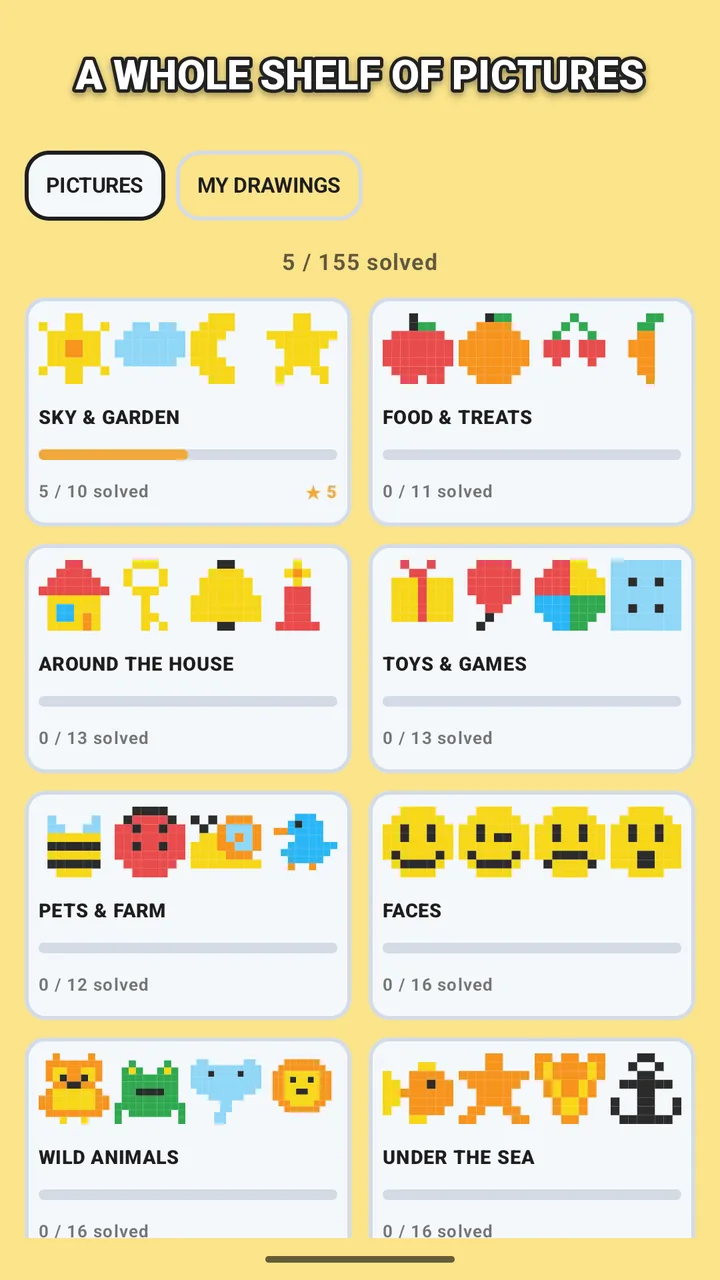
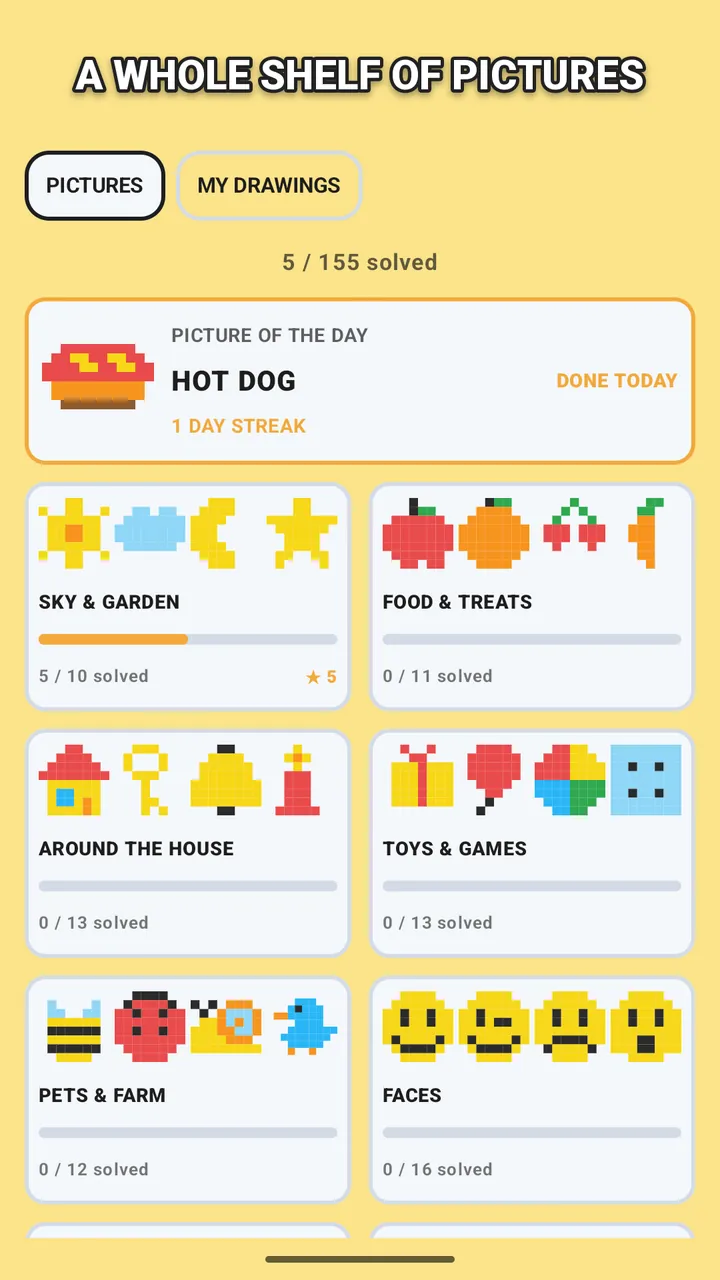
Update Dot Art for 1.10: new name and picture of the day
Rename to Dot Art: Picture Puzzle, add a feature card for the daily
picture and streak, and drop "no streaks" from the blurb. Refresh the
screenshots from the 1.10 store listing and add the daily picture shot.
Dark mode moves into the gold star card to keep the grid at six.

diff --git a/index.html b/index.html
@@ -4,7 +4,7 @@
 <meta charset="UTF-8">
 <meta name="viewport" content="width=device-width, initial-scale=1">
 <title>LudwigTech — Bright, gentle Android apps</title>
-<meta name="description" content="LudwigTech makes bright, gentle Android apps: Dot Art: Match the Picture, a calm dot puzzle for all ages, and Kids Pretend Shop, a pretend shop for kids.">
+<meta name="description" content="LudwigTech makes bright, gentle Android apps: Dot Art: Picture Puzzle, a calm dot puzzle for all ages, and Kids Pretend Shop, a pretend shop for kids.">
 <meta name="author" content="LudwigTech">
 <link rel="canonical" href="https://byronludwig.github.io/">
 
@@ -68,7 +68,7 @@
       <div class="app-head">
         <img class="app-icon" src="assets/icons/dot-art.webp" alt="Dot Art app icon" width="112" height="112" loading="lazy">
         <div>
-          <h2 id="dot-art-title">Dot Art: Match the Picture</h2>
+          <h2 id="dot-art-title">Dot Art: Picture Puzzle</h2>
           <p class="tagline">Copy the picture dot by dot on a magnetic pegboard.</p>
           <p class="meta">Free to start · All ages · PEGI 3 · Android</p>
         </div>
@@ -78,30 +78,31 @@
         A picture sits on the card above the board. Copy it, one coloured dot at a
         time, until the board matches it exactly. Tap a colour to load it, or drag a
         dot straight out of the tray — either way it snaps into the nearest hole and
-        stays put. No timers, no streaks, no pressure: it is made for anyone who
+        stays put. No timers, no lives, no pressure: it is made for anyone who
         finds that sort of thing quietly satisfying, grown-ups included.
       </p>
 
       <ul class="features">
         <li><span aria-hidden="true">🖼</span><strong>Lots of pictures, plenty of themes</strong>Sky &amp; garden, food, pets, wild animals, under the sea, faces and more. The first few themes are free; unlock the rest one at a time or all at once, with a one-off purchase.</li>
+        <li><span aria-hidden="true">📅</span><strong>A new picture every day</strong>A hand-drawn picture of the day you won't find on the shelf. Solve it to grow your streak — and one missed day needn't end the run.</li>
         <li><span aria-hidden="true">📐</span><strong>Boards to grow into</strong>Easy, medium and hard, each bigger than the last.</li>
         <li><span aria-hidden="true">💡</span><strong>Nudges, not nagging</strong>A hint points at the next missing dot when someone gets stuck.</li>
         <li><span aria-hidden="true">✏</span><strong>Draw your own</strong>Free-play boards up to 12×12, with mirror mode, save and share.</li>
-        <li><span aria-hidden="true">⭐</span><strong>Go for the gold star</strong>Solve it with no dots wasted.</li>
-        <li><span aria-hidden="true">🌙</span><strong>Plays day or night</strong>Dark mode for the evening wind-down.</li>
+        <li><span aria-hidden="true">⭐</span><strong>Go for the gold star</strong>Solve it with no dots wasted. Dark mode, too, for the evening wind-down.</li>
       </ul>
 
       <div class="shots" role="group" aria-label="Dot Art screenshots" tabindex="0">
         <img src="assets/shots/dot-art/04.webp" alt="Tap or drag a dot — a rainbow picture part-built on the pegboard" width="720" height="1280" loading="lazy">
-        <img src="assets/shots/dot-art/02.webp" alt="A solved star picture with a gold star and the message Perfect — not one dot wasted" width="720" height="1280" loading="lazy">
-        <img src="assets/shots/dot-art/01.webp" alt="The picture shelf, showing themes such as Sky and Garden, Food and Treats, Pets and Farm" width="720" height="1280" loading="lazy">
+        <img src="assets/shots/dot-art/07.webp" alt="The picture of the day, a hot dog, part-copied on the pegboard" width="720" height="1280" loading="lazy">
+        <img src="assets/shots/dot-art/02.webp" alt="A solved sun picture with a gold star and the message Perfect — not one dot wasted" width="720" height="1280" loading="lazy">
+        <img src="assets/shots/dot-art/01.webp" alt="The picture shelf, with the picture of the day on a one-day streak above themes such as Sky and Garden, Food and Treats, Pets and Farm" width="720" height="1280" loading="lazy">
         <img src="assets/shots/dot-art/05.webp" alt="A hint highlighting the hole where a dot is missing" width="720" height="1280" loading="lazy">
         <img src="assets/shots/dot-art/03.webp" alt="Free drawing mode on a 12 by 12 board with a full colour tray" width="720" height="1280" loading="lazy">
         <img src="assets/shots/dot-art/06.webp" alt="The same rainbow board in dark mode" width="720" height="1280" loading="lazy">
       </div>
 
       <a class="badge" href="https://play.google.com/store/apps/details?id=com.byronludwig.matchthepicture" rel="noopener">
-        <img src="assets/google-play-badge.png" alt="Get Dot Art: Match the Picture on Google Play" width="323" height="125" loading="lazy">
+        <img src="assets/google-play-badge.png" alt="Get Dot Art: Picture Puzzle on Google Play" width="323" height="125" loading="lazy">
       </a>
     </div>
   </section>
